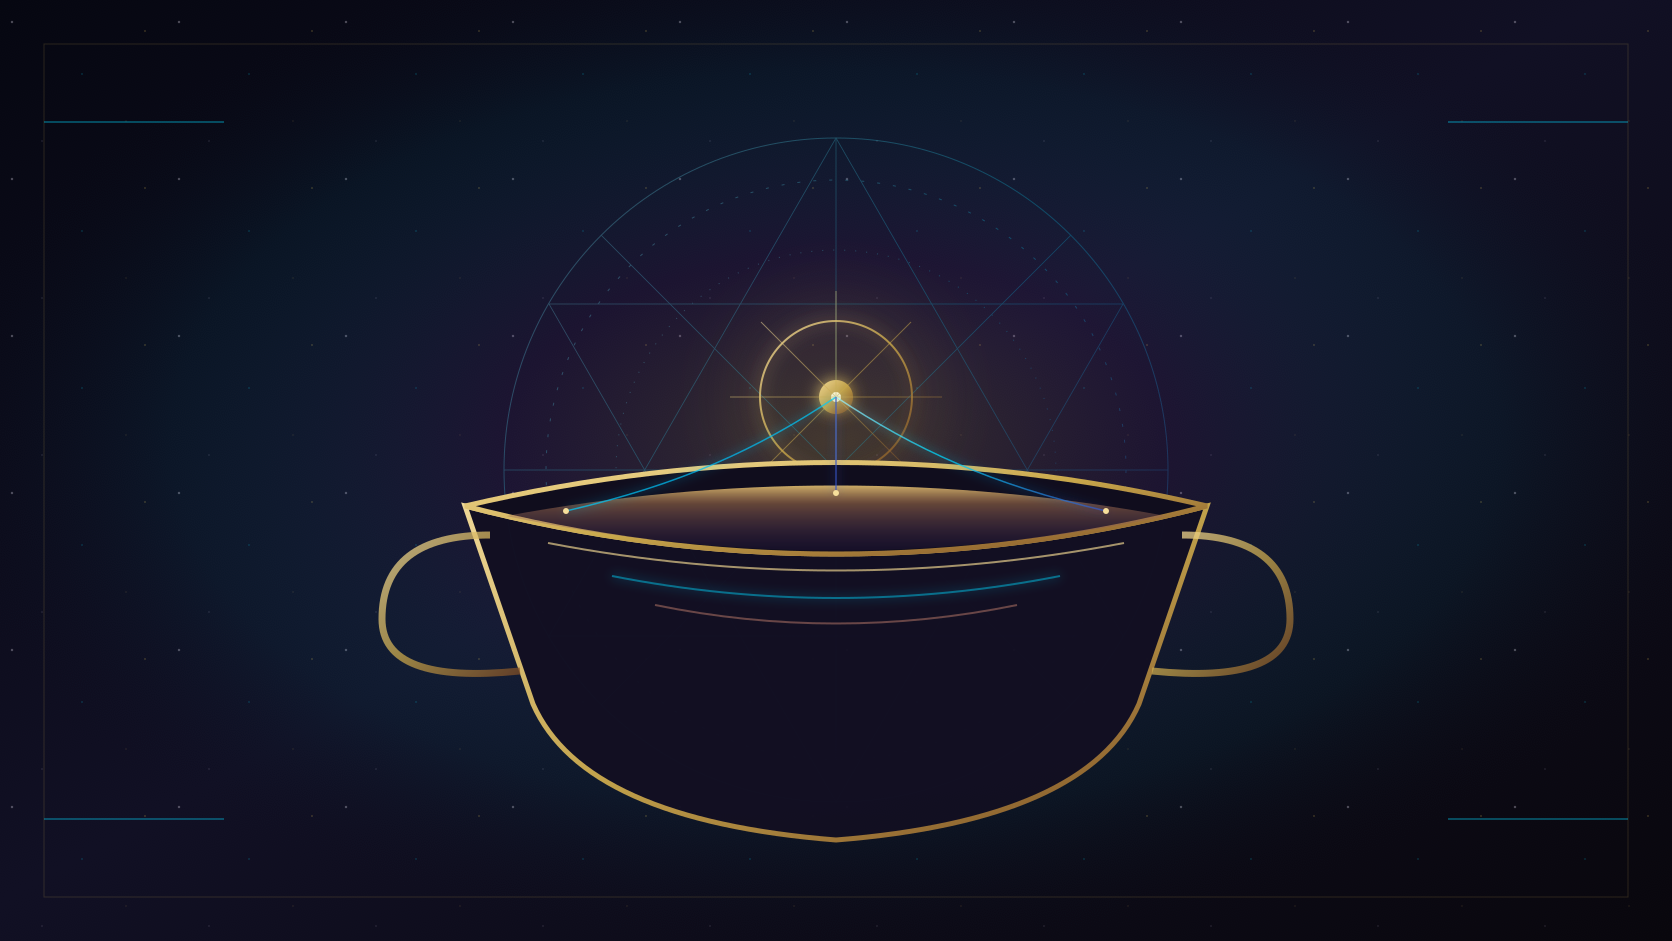
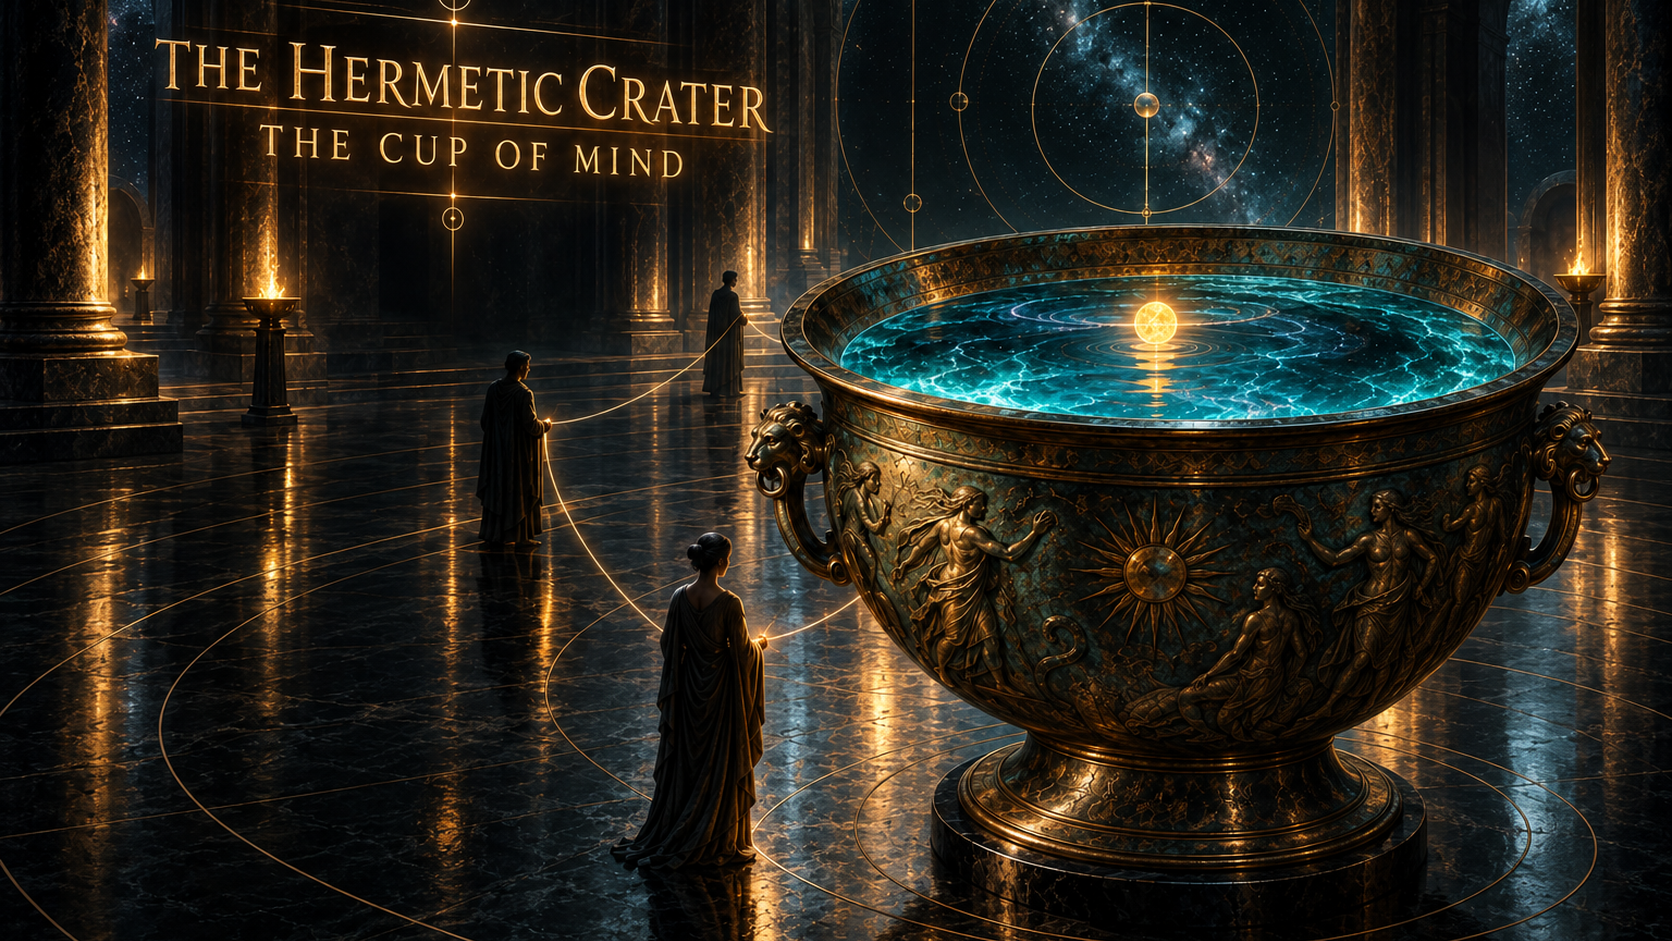
feat: hermetic crater in-body image trio (enter-vessel, proportion, return-with-form)

diff --git a/src/data/blog-content/2026-09-08/hermetic-crater-cup-of-mind.md b/src/data/blog-content/2026-09-08/hermetic-crater-cup-of-mind.md
@@ -42,6 +42,8 @@ A good reading does not choose whichever word best confirms a prior worldview. I
 
 ## The *kratēr* is a technology of proportion
 
+![Entering the vessel: the seeker crosses the rim of the Hermetic mixing-bowl](/journal/voa-20260908/hermetic-crater-cup-of-mind/enter-vessel.png)
+
 A [krater](https://www.britannica.com/art/krater) was an ancient Greek vessel used for diluting wine with water. It was broad, stable, and made for mixing before the drink was distributed. It belonged to a social setting in which the strength of the wine was not an incidental detail. The mixture had to be prepared.
 
 The material context does not prove that the Hermetic dialogue records a literal symposium or an institution that performed a crater baptism. It gives the metaphor a physical intelligence. The thing in the scene is not just a precious container. It is an instrument that changes a relation.
@@ -87,6 +89,8 @@ The difference is visible in any serious practice. A person can collect referenc
 The archive is the rim. Practice is the immersion.
 
 ## The herald’s call is a readiness test
+
+![Proportion: the vessel changes the relation among its elements](/journal/voa-20260908/hermetic-crater-cup-of-mind/proportion.png)
 
 The text does not give us a securely identifiable historical office for the herald. It gives us a voice that carries a proclamation to the hearts of human beings. That is enough for the image to work, but not enough to invent an ancient organization around it.
 
@@ -184,6 +188,8 @@ These are questions of alignment in the plainest sense. They apply to an artist,
 The ancient image is not valuable because it gives us a mystical name for a modern technology. It is valuable because it distinguishes output from understanding. Speech can be abundant. Mind is the proportion that makes speech answerable to purpose.
 
 ## A reading method for a difficult text
+
+![Return with form: what is received becomes visible in action](/journal/voa-20260908/hermetic-crater-cup-of-mind/return-with-form.png)
 
 If you want to work with *Corpus Hermeticum* IV without flattening it, keep four boundaries visible.
 
